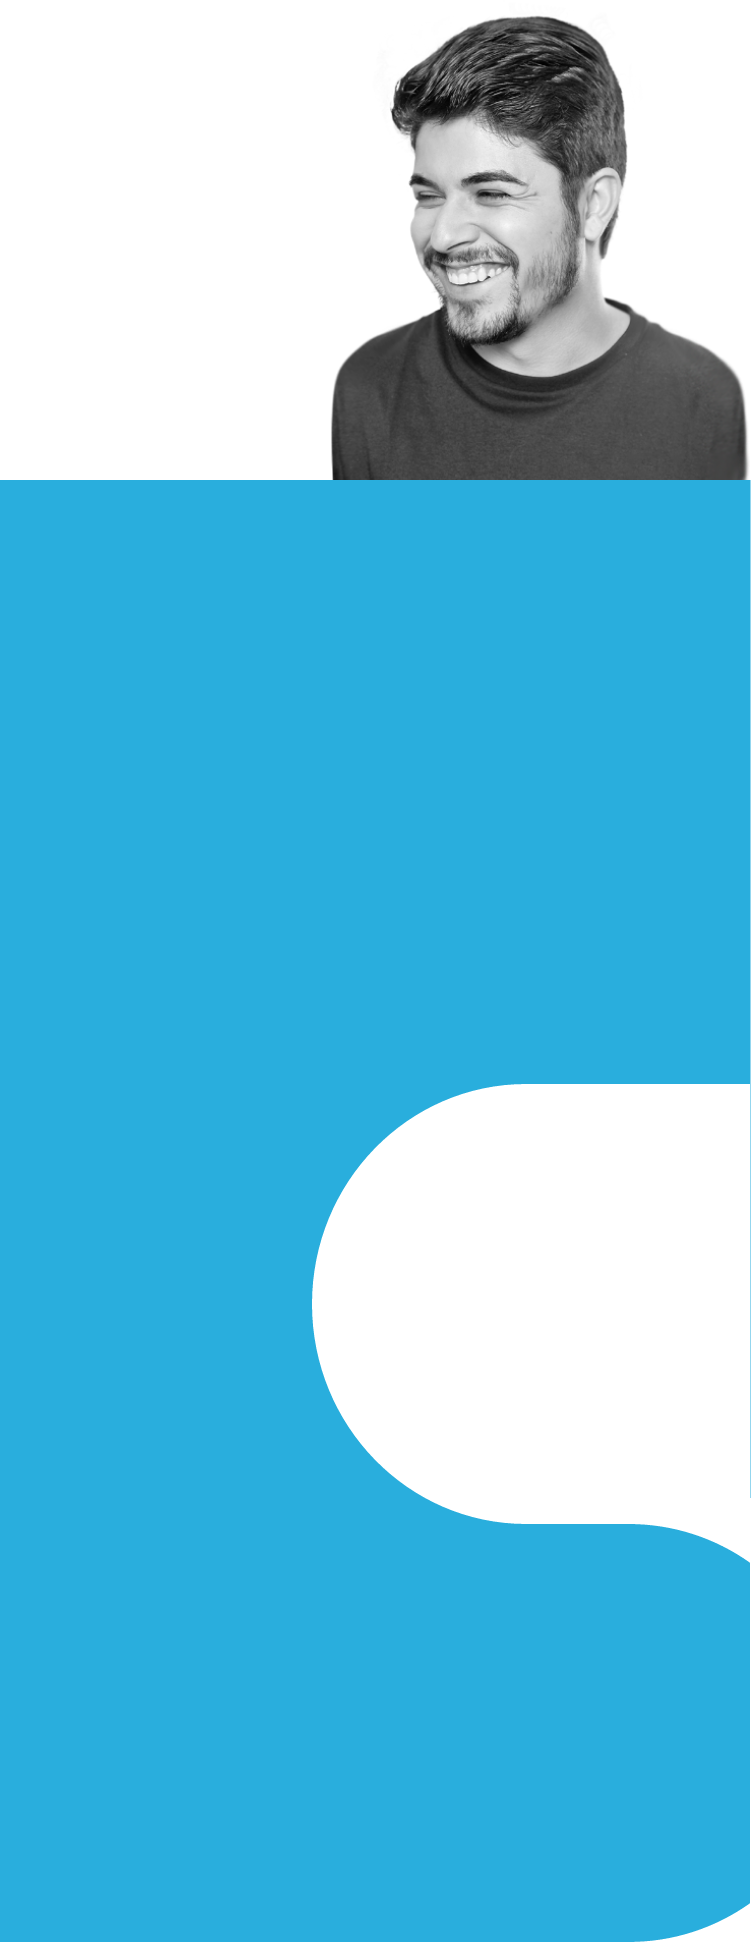
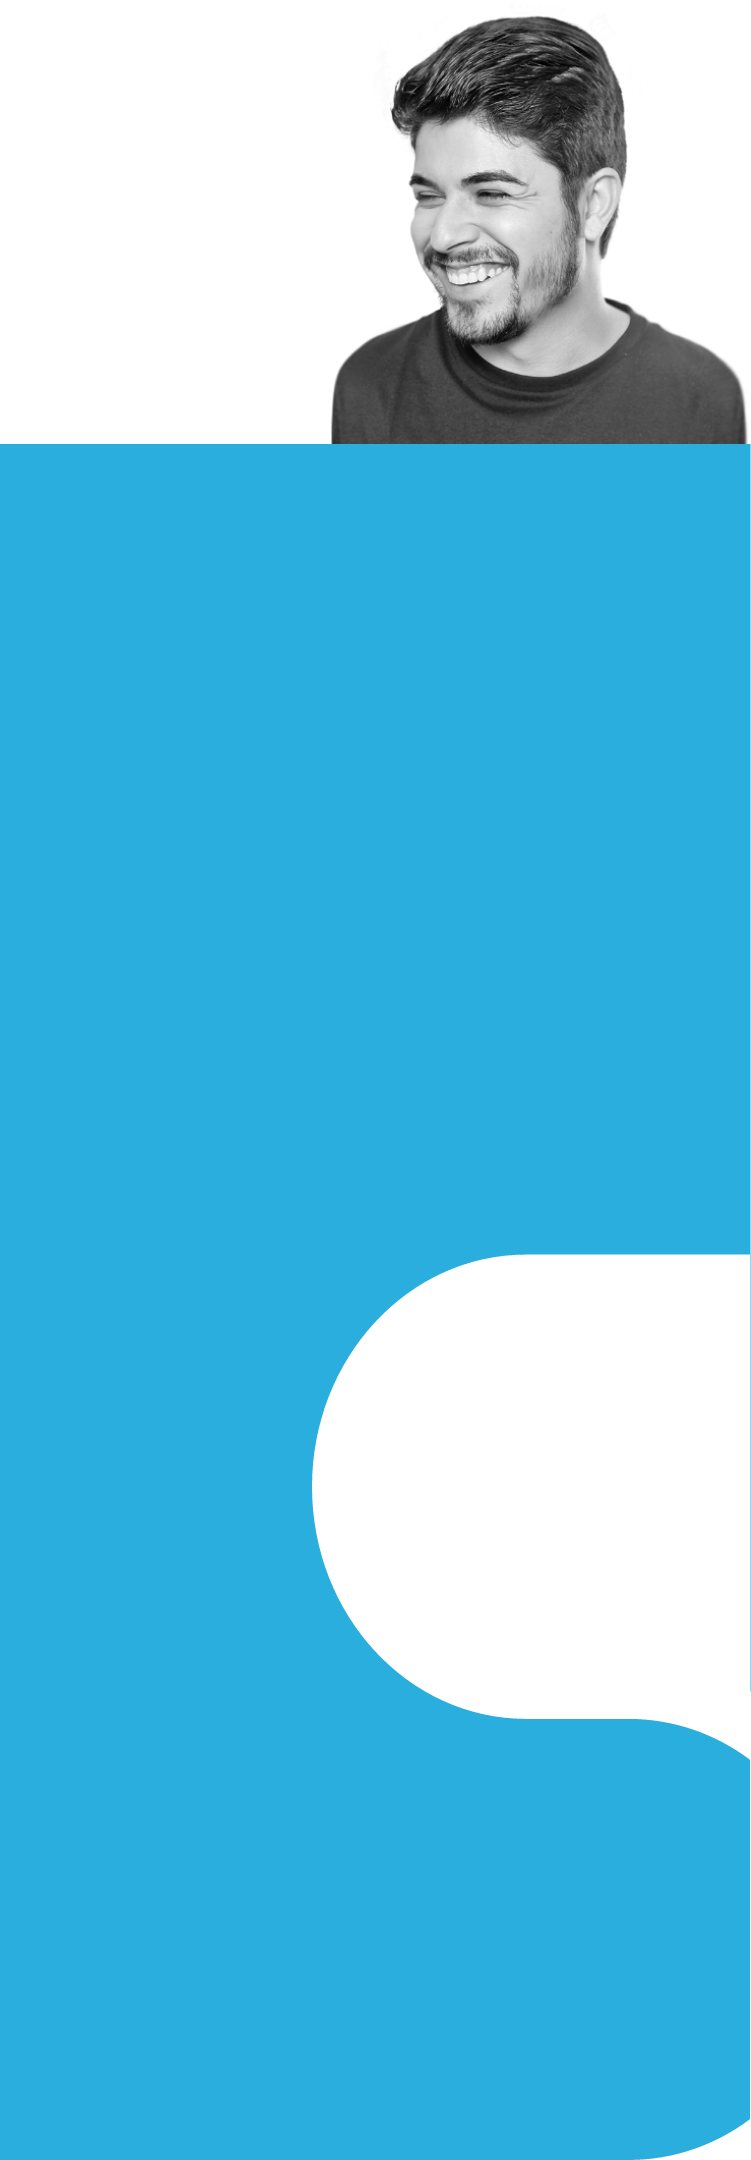
Config to small and pluss mobile

diff --git a/src/app/app.component.scss b/src/app/app.component.scss
@@ -35,21 +35,27 @@
     margin-top: -2.5rem;
     &__title {
       @include mobile {
-        padding-left: .5rem;
-        margin-top: 5rem;
+        padding-left: 2rem;
+        margin-top: 10vh;
+      }
+      @include mobile-plus {
+        height: 11rem;
       }
       display: flex;
       flex-direction: column;
       height: 9rem;
       &--first {
         @extend %font-oswald;
+        @include mobile {
+          font-size: 2rem;
+        }
       }
       &--second {
         @include mobile {
           position: relative;
           top: -0.65rem;
-          left: 5.65rem;
-          width: 7rem;
+          left: 4.65rem;
+          width: 5.5rem;
         }
         position: relative;
         top: -1.125rem;
@@ -59,16 +65,25 @@
     }
 
     &__description {
+
       @include mobile {
-        display: flex;
-        justify-content: center;
-        font-size: 11px;
-        line-height: .95rem;
-        width: 100vw;
-        margin-top: 2rem;
+        align-self: center;
+        font-size: 14px;
+        line-height: 1.125rem;
+        width: 80vw;
+        min-height: 41vh;
+        margin-top: 1rem;
+      }
+      @include mobile-small {
+        font-size: 13px;
+      }
+      @include mobile-plus {
+        font-size: 16px;
+        line-height: 1.25rem;
       }
       @include web {
         padding-top: 1rem;
+        width: 30rem;
       }
       font-family: 'Source Sans Pro', sans-serif;
       text-align: left;
@@ -82,7 +97,7 @@
       width: 100vw;
       height: 75vw;
       align-items: center;
-      margin-top: 1rem;
+      margin-top: 1.5rem;
     }
     @include mobile-plus {
       margin-top: 1.5rem;
@@ -103,7 +118,7 @@
       @include mobile {
         justify-content: space-around;
         width: 100%;
-        padding-top: 2rem;
+        padding-top: 1.5rem;
       }
       padding-top: 6rem;
       display: flex;
@@ -163,7 +178,7 @@
     display: flex;
     flex-direction: column;
     margin-top: 10rem;
-    margin-bottom: 1.5rem;
+    margin-bottom: 3vh;
     &__title {
       @extend %font-oswald;
       align-self: center;
@@ -200,6 +215,7 @@
       }
       @include mobile-plus {
         margin-left: 2rem;
+        margin-bottom: -5vh;
       }
       display: flex;
       justify-content: center;

diff --git a/src/app/app.component.html b/src/app/app.component.html
@@ -8,20 +8,20 @@
 
       <h2 class="autor__description">
         Gaúcho, tem 26 anos e acumula títulos: escritor, comunicador,
-        <br> produtor de conteúdo e palestrante. Com ‘Seja o amor da sua vida’,
-        <br> seu primeiro livro, tornou-se best-seller com mais de 70
-        <br> mil exemplares vendidos em menos de 2 anos. Além disso,
-        <br> também entrou para a lista de livros mais vendidos no Brasil
-        <br> em 2018 segundo o PublishNews. No mesmo ano, com sua
-        <br> peça homônima, lotou teatros em uma turnê que passou por
-        <br> várias cidades, contando como ultrapassou as barreiras do
-        <br> abuso psicológico e da violência doméstica sofridos por ele
-        <br> e sua mãe até a metade da sua adolescência. Em 2019, foi um
-        <br> dos palestrantes do TEDxParqueDoIngá onde falou sobre a
-        <br> construção do amor-próprio através de suas próprias
-        <br> experiências, assim como vem fazendo para mais de 1 milhão
-        <br> de pessoas em suas redes sociais. Em 2020, Guilherme Pintto
-        <br> se prepara para lançar o seu terceiro livro.
+        produtor de conteúdo e palestrante. Com ‘Seja o amor da sua vida’,
+        seu primeiro livro, tornou-se best-seller com mais de 70
+        mil exemplares vendidos em menos de 2 anos. Além disso,
+        também entrou para a lista de livros mais vendidos no Brasil
+        em 2018 segundo o PublishNews. No mesmo ano, com sua
+        peça homônima, lotou teatros em uma turnê que passou por
+        várias cidades, contando como ultrapassou as barreiras do
+        abuso psicológico e da violência doméstica sofridos por ele
+        e sua mãe até a metade da sua adolescência. Em 2019, foi um
+        dos palestrantes do TEDxParqueDoIngá onde falou sobre a
+        construção do amor-próprio através de suas próprias
+        experiências, assim como vem fazendo para mais de 1 milhão
+        de pessoas em suas redes sociais. Em 2020, Guilherme Pintto
+        se prepara para lançar o seu terceiro livro.
       </h2>
     </div>
 

diff --git a/src/variables.scss b/src/variables.scss
@@ -10,6 +10,14 @@ $black: #000000;
 $radius-small: 4px;
 $radius-large: 15px;
 
+@mixin mobile-small {
+  @media only screen
+  and (min-device-width: 300px)
+  and (max-device-width: 361px) {
+    @content;
+  }
+}
+
 @mixin mobile {
   @media only screen
   and (min-device-width: 300px)
